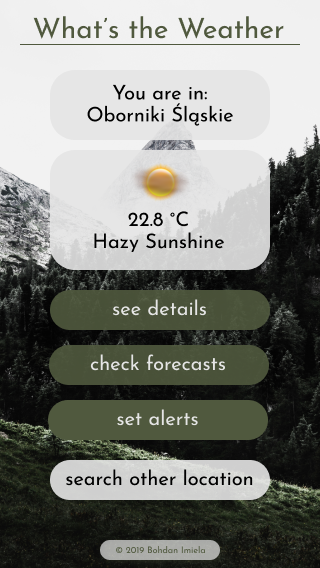
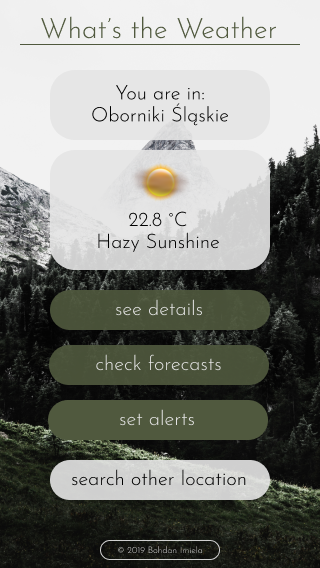
Start building welcome screen

diff --git a/src/js/ui.js b/src/js/ui.js
@@ -1,21 +1,22 @@
-const display = document.getElementById('app');
+const display = document.getElementById('display');
 
 class UI {
   static displayCurrentLocation(location) {
     const locationDisplay = document.querySelector('#locationDisplay');
     locationDisplay.innerHTML =
-      `<p>You are in:</p>
-      <p>${location}</p>`
+    `<p>You are in:<br>${location}</p>`
   }
 
   static displayWeather(weather) {
     const weatherDisplay = document.createElement('div');
+    weatherDisplay.id = weatherDisplay;
+    weatherDisplay.classList.add('display');
     display.appendChild(weatherDisplay);
     const icon = weather.WeatherIcon < 10 ? `0${weather.WeatherIcon}`: weather.WeatherIcon;
     weatherDisplay.innerHTML =
       `<img src="https://developer.accuweather.com/sites/default/files/${icon}-s.png">
-      <p>${weather.ApparentTemperature.Metric.Value} &#8451;</p>
-      <p>${weather.WeatherText}</p>`;
+      <p>${weather.ApparentTemperature.Metric.Value} ©C<br>
+      ${weather.WeatherText}</p>`;
     console.log(weather);
   }
 

diff --git a/src/styles/_base.scss b/src/styles/_base.scss
@@ -1,20 +1,22 @@
+@import url('https://fonts.googleapis.com/css?family=Josefin+Sans:300&display=swap');
+
 :root{
-  font-family: 'Open Sans';
-  font-size: 16px;
+  font: 20px/1.1 'Josefin Sans', sans-serif;
   box-sizing: border-box;
+  color: $main-col;
 }
 
 body {
-  margin: 0;
-  padding: 0;
+  background-color: #efefef;
   background-image: url('../images/bg-image.jpg');
   background-repeat: repeat;
   background-size: cover;
   z-index: -2;
-  display: flex;
-  flex-direction: column;
-  justify-content: center;
-  align-items: center;
+  display: grid;
+  grid-template-columns: 1fr;
+  grid-template-rows: 1fr 1fr 1fr;
+  justify-items: center;
+  align-content: center;
   height: 100vh;
   text-align: center;
 }
@@ -23,6 +25,8 @@ body {
 *::before,
 *::after {
   box-sizing: border-box;
+  padding: 0;
+  margin: 0;
 }
 
 /* Spinner from https://codepen.io/bernethe/pen/dorozd */

diff --git a/src/index.html b/src/index.html
@@ -12,12 +12,17 @@
 </head>
 <body>
   <header>
-    <h1>What's the Weather</h1>
+    <h1 class="title">What's the Weather</h1>
   </header>
-  <div id="app">
-    <div id="locationDisplay">
-      
-    </div>
-  </div>
+
+  <main id="app">
+    <section id="display">
+      <div id="locationDisplay" class="display"></div>
+    </section>
+  </main>
+
+  <footer>
+    <p>© 2019 Bohdan Imiela</p>
+  </footer>
 </body>
 </html>

diff --git a/src/styles/_app.scss b/src/styles/_app.scss
@@ -1,5 +1,15 @@
+%box {
+  border-radius: 25px;
+  min-width: 220px;
+  padding: 10px;
+  margin-bottom: 10px;
+}
+
 #app {
-  background-color: rgba(255,255,255,.5);
-  width: 90%;
-  min-height: 400px;
+  .display{
+    @extend %box;
+    background-color: $second-col-trans;
+    color: #000;
+  }
+
 }

diff --git a/src/styles/_header.scss b/src/styles/_header.scss
@@ -1,0 +1,8 @@
+header {
+  .title {
+    border-bottom: 1px solid $main-col;
+    font-size: 1.4rem;
+    margin-top: 15px;
+    width: 280px;
+  }
+}

diff --git a/src/styles/_variables.scss b/src/styles/_variables.scss
@@ -1,0 +1,4 @@
+$main-col: #50593e;
+$main-col-trans: rgba(80, 89, 62, .9);
+$second-col: #e5e5e5;
+$second-col-trans: rgba(229, 229, 229, .9);

diff --git a/src/js/index.js b/src/js/index.js
@@ -80,6 +80,4 @@ async function get1DayForecast(position) {
   }
 }
 
-
-
 export default currentLocation;

diff --git a/src/styles/index.scss b/src/styles/index.scss
@@ -1,3 +1,4 @@
 @import 'variables';
 @import 'base';
+@import 'header';
 @import 'app';
